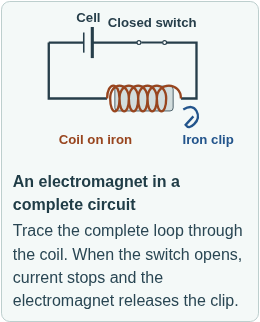
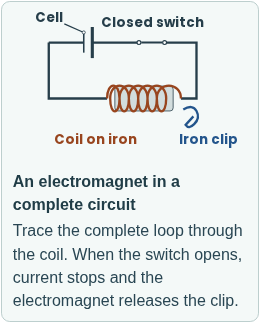
Keep electromagnet labels distinct in the site font

Changed region(s): [[0.1231, 0.0311, 0.8, 0.1242], [0.2154, 0.4037, 0.5231, 0.4658], [0.6769, 0.4037, 0.9231, 0.4658]]

diff --git a/public/assets/ks3-step-visuals.js b/public/assets/ks3-step-visuals.js
@@ -78,7 +78,7 @@ function electromagnet() {
     ${line(100,34,100,60,ink,2)}${line(111,27,111,67,ink,4)}
     <rect x="140" y="103" width="75" height="32" rx="4" fill="#d2dddd" stroke="${ink}"/>
     <path data-role="coil-wire" d="M130 119 C130 97 146 97 146 119 C146 141 134 141 134 119 C134 97 158 97 158 119 C158 141 146 141 146 119 C146 97 170 97 170 119 C170 141 158 141 158 119 C158 97 182 97 182 119 C182 141 170 141 170 119 C170 97 194 97 194 119 C194 141 182 141 182 119 C182 97 206 97 206 119 C206 141 194 141 194 119 C194 97 225 97 225 119" fill="none" stroke="${rust}" stroke-width="3"/>
-    ${text(106,20,"Cell",ink,17)}${text(115,178,"Coil on iron",rust,17)}
+    ${text(55,20,"Cell",ink,17)}${line(75,23,100,34,ink,1.5)}${circle(100,34,2,"white",ink,1)}${text(115,178,"Coil on iron",rust,17)}
     <path d="M228 133q12-7 17 2t-3 17q-7 7-11 1l10-11" fill="none" stroke="${blue}" stroke-width="3"/>
     ${text(260,178,"Iron clip",blue,17)}`,320,195),
     "Trace the complete loop through the coil. When the switch opens, current stops and the electromagnet releases the clip.");

diff --git a/docs/catchup-visual-coverage-ks3-steps.md b/docs/catchup-visual-coverage-ks3-steps.md
@@ -44,7 +44,7 @@ This is a working audit of the catalogue source, not a claim that KS3 coverage i
 | 8 · photosynthesis | 1. Photosynthesis uses energy transferred by light to make glucose from carbon dioxide and water. The process also makes oxygen. | Leaf showing light, CO₂ and water in, glucose and oxygen out | Checked against block | 320/1280 leaf figure inspected; labels enlarged and separated from outline |
 | 8 · photosynthesis | 2. Chlorophyll in chloroplasts absorbs light. The plant can use the glucose in respiration or to build other substances. Plants still respire when it is dark. | Root-cell aerobic respiration plus glucose-to-starch chain model | Checked against block; chain and reaction water are simplified | 320/1280 root-cell and starch figures inspected; labels enlarged |
 | 8 · electricity | 1. An electric current is a flow of charge. A working electrical cell can drive a current around a complete circuit. | Open and closed circuit comparison | Checked against block | 320/1280 circuit comparison inspected |
-| 8 · electricity | 2. Opening the switch makes a gap. In this single loop, a gap anywhere stops current flowing all the way around. A coil that acts as a magnet when it carries a current is an electromagnet. | Complete cell/coil circuit and iron clip: trace the wire through the winding | Phase 2 corrected disconnected cell terminal and coil bypass; checked against [KS3 national curriculum](https://www.gov.uk/government/publications/national-curriculum-in-england-science-programmes-of-study) and [Oak electromagnet lesson](https://www.thenational.academy/teachers/programmes/science-secondary-ks3/units/magnets-and-electromagnets/lessons/current-through-an-electromagnet) | Corrected winding and labels inspected at 320/1280 px; wire continuity and absence of a bypass checked in browser |
+| 8 · electricity | 2. Opening the switch makes a gap. In this single loop, a gap anywhere stops current flowing all the way around. A coil that acts as a magnet when it carries a current is an electromagnet. | Complete cell/coil circuit and iron clip: trace the wire through the winding | Phase 2 corrected disconnected cell terminal and coil bypass; checked against [KS3 national curriculum](https://www.gov.uk/government/publications/national-curriculum-in-england-science-programmes-of-study) and [Oak electromagnet lesson](https://www.thenational.academy/teachers/programmes/science-secondary-ks3/units/magnets-and-electromagnets/lessons/current-through-an-electromagnet) | Corrected winding and labels inspected at 320/1280 px; wire continuity, absence of a bypass and separation in the Poppins font checked in browser |
 | 8 · metals | 1. Reactivity describes how readily a substance reacts. In displacement, a more reactive metal can take the place of a less reactive metal in a compound in solution. | Iron/copper displacement sequence after block 2 | Checked against block | 320/1280 displacement figures inspected and labels enlarged |
 | 8 · metals | 2. An iron strip forms a copper coating in copper sulfate solution. Iron displaces copper from its compound, so this is evidence that iron is more reactive than copper. | Before/after iron strip and copper deposit, with optional attributed photo | Checked against block | 320/1280 displacement figures and optional credited photo inspected; deposit colour is subtle in the still |
 | 8 · journey-speed | 1. Average speed is the total distance divided by the total time. If we measure in metres and seconds, the answer tells us metres per second. | Equal 2 m intervals on a distance line for the 10 m ÷ 5 s worked example, followed by distance bars | Checked against block; constant intervals illustrate average speed | 320/1280 distance timeline inspected and labels enlarged |

diff --git a/docs/catchup-visual-quality-phase2.md b/docs/catchup-visual-quality-phase2.md
@@ -4,7 +4,7 @@ This is a targeted adversarial review of selected teaching routes, not a full sc
 
 | Course and route / teaching block | Severity and issue before | Change and teaching purpose | Review |
 | --- | --- | --- | --- |
-| KS3 Year 8 electricity, electromagnet | High: the cell terminal was disconnected and a straight wire bypassed the coil. | The closed circuit now passes through a continuous winding around the iron core. | The wire joins both terminals and the winding; the model is schematic. [Before](catchup-visual-phase2/ks3-electromagnet-before-phone.png) · [After](catchup-visual-phase2/ks3-electromagnet-after-phone.png) |
+| KS3 Year 8 electricity, electromagnet | High: the cell terminal was disconnected and a straight wire bypassed the coil. | The closed circuit now passes through a continuous winding around the iron core. | The wire joins both terminals and the winding; the model is schematic. Cell and switch labels were separated after checking the deployed Poppins font. [Before](catchup-visual-phase2/ks3-electromagnet-before-phone.png) · [After](catchup-visual-phase2/ks3-electromagnet-after-phone.png) |
 | KS3 reproduction, pollination | Medium: the ovule leader ended against a similarly coloured outline, and small labels and movement arrow were hard to read on a phone. | Contrasting endpoint dots identify the ovule and pollen tube; the pollen movement arrow has a distinct head and the caption distinguishes it from label lines. | Both pollination and pollen-tube states inspected at 320 and 1280 px; [KS3 ledger](catchup-visual-coverage-ks3-steps.md). |
 | Year 9 active transport, opening and teaching steps | High: the comparison omitted the carrier protein and its labels became very small on phones; opening leaders missed their intended structures. | The active-transport panel shows the protein and direction against the concentration gradient, with larger labels and leaders placed on their targets. | Movement arrows, membrane, protein, respiratory-energy explanation and independent-stage separation checked at 320 and 1280 px. This is the Year 9/GCSE bridge rather than a Year 10 lesson. |
 | GCSE electrolysis, aqueous and Higher Tier reduction | High: the brine arrow could be read as sodium forming hydrogen; the reduction drawing placed electron transfer away from the electrode. | Bubbles identify gaseous products and the caption states sodium ions remain mobile. Two stages distinguish ion approach from electron transfer at the cathode surface. | Arrow functions and endpoints checked with the relevant Foundation and Higher text. [Before](catchup-visual-phase2/gcse-reduction-before-phone.png) · [After](catchup-visual-phase2/gcse-reduction-after-phone.png) |
